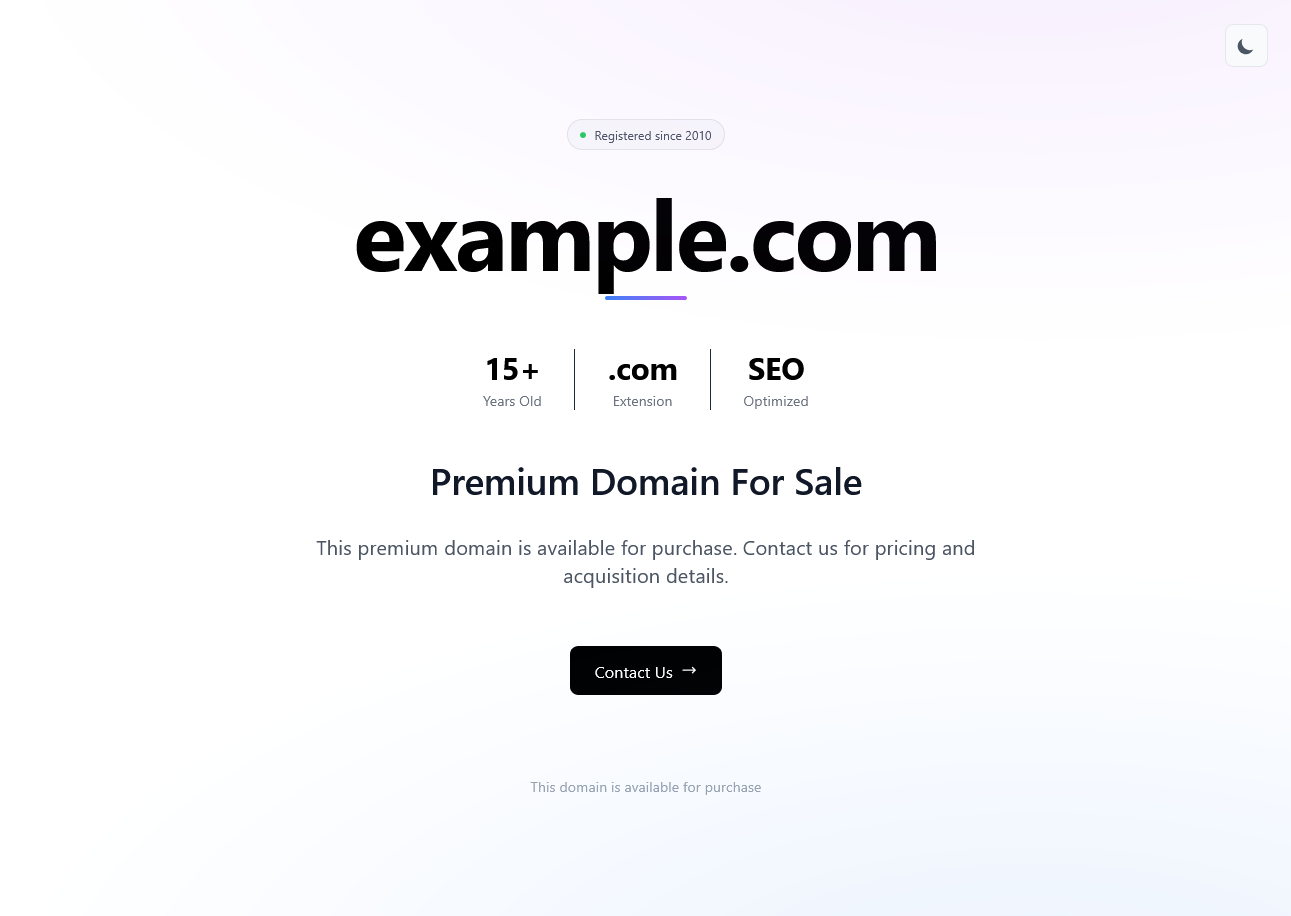
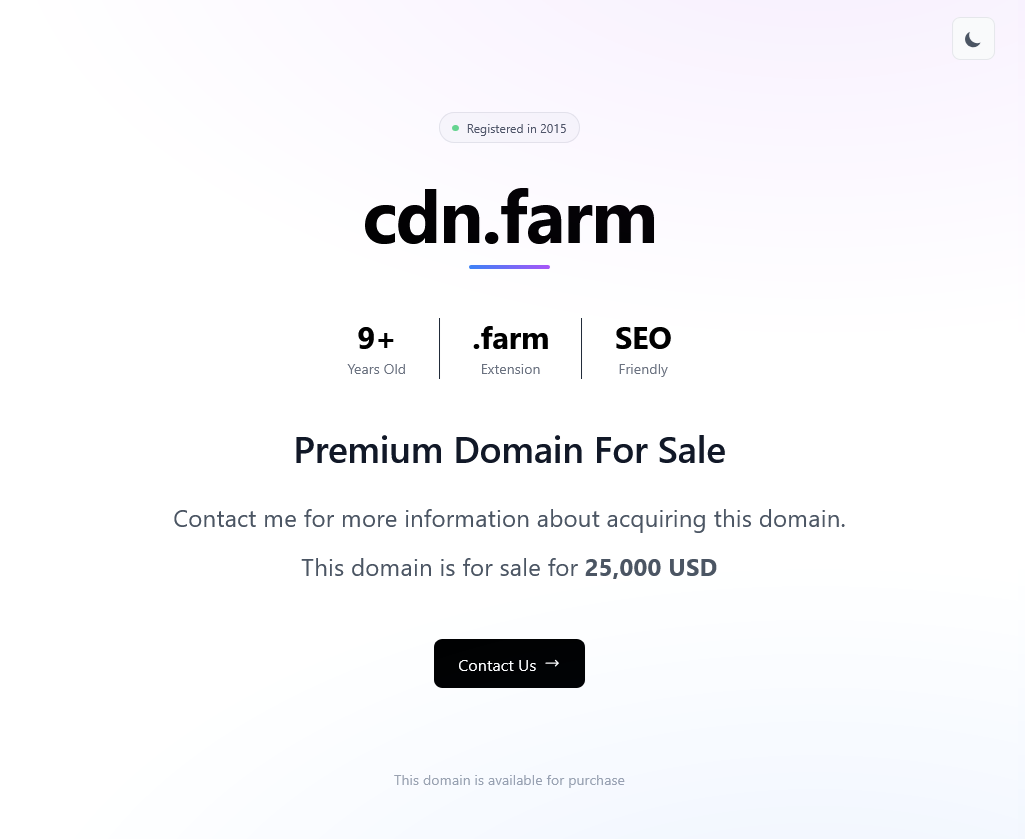
Enhance domain page with dynamic stats and config

diff --git a/src/index.js b/src/index.js
@@ -1,14 +1,38 @@
-import config from '../config.json';
+import config from "../config.json";
 
 /**
  * Load configuration with environment variable overrides
  */
 function getConfig(env) {
+  const registrationDate = env.REGISTRATION_DATE || config.registrationDate;
+  let domainAgeYears = "";
+  let domainRegistration = "";
+  let domainExtension = "";
+
+  const domain = env.DOMAIN || config.domain;
+  if (domain) {
+    const parts = domain.split(".");
+    if (parts.length > 1) {
+      domainExtension = `.${parts.pop()}`;
+    }
+  }
+
+  if (registrationDate) {
+    const regDate = new Date(registrationDate);
+    const ageInMs = Date.now() - regDate.getTime();
+    const ageInYears = ageInMs / (1000 * 60 * 60 * 24 * 365.25);
+    domainAgeYears = `${Math.floor(ageInYears)}+`;
+    domainRegistration = `Registered in ${regDate.getFullYear()}`;
+  }
+
   return {
-    domain: env.DOMAIN || config.domain,
+    domain: domain,
     title: env.TITLE || config.title,
     description: env.DESCRIPTION || config.description,
-    domainAge: env.DOMAIN_AGE || config.domainAge,
+    domainAgeYears: domainAgeYears,
+    domainRegistration: domainRegistration,
+    domainExtension: domainExtension,
+    salePrice: env.SALE_PRICE || config.salePrice,
     contactEmail: env.CONTACT_EMAIL || config.contactEmail,
     backgroundColor: env.BG_COLOR || config.backgroundColor,
     textColor: env.TEXT_COLOR || config.textColor,
@@ -83,14 +107,18 @@ function generateHTML(cfg) {
     <div class="flex items-center justify-center min-h-screen px-6 py-24">
         <div class="max-w-4xl w-full">
             <!-- Domain Badge -->
-            ${cfg.domainAge ? `
+            ${
+              cfg.domainRegistration
+                ? `
             <div class="flex justify-center mb-8">
                 <div class="inline-flex items-center gap-2 px-3 py-1.5 rounded-full border dark:border-gray-800 border-gray-200 dark:bg-gray-900 bg-gray-50">
                     <div class="w-1.5 h-1.5 rounded-full bg-green-500 animate-pulse"></div>
-                    <span class="text-xs font-medium dark:text-gray-400 text-gray-600">${cfg.domainAge}</span>
+                    <span class="text-xs font-medium dark:text-gray-400 text-gray-600">${cfg.domainRegistration}</span>
                 </div>
             </div>
-            ` : ''}
+            `
+                : ""
+            }
             
             <!-- Main Content -->
             <div class="text-center space-y-8">
@@ -105,18 +133,22 @@ function generateHTML(cfg) {
                 <!-- Domain Stats -->
                 <div class="flex flex-wrap justify-center gap-6 sm:gap-8 py-4">
                     <div class="text-center">
-                        <div class="text-2xl sm:text-3xl font-bold dark:text-white text-black">15+</div>
+                        <div class="text-2xl sm:text-3xl font-bold dark:text-white text-black">${
+                          cfg.domainAgeYears
+                        }</div>
                         <div class="text-sm dark:text-gray-500 text-gray-500 mt-1">Years Old</div>
                     </div>
                     <div class="hidden sm:block w-px bg-gray-800 dark:bg-gray-800"></div>
                     <div class="text-center">
-                        <div class="text-2xl sm:text-3xl font-bold dark:text-white text-black">.com</div>
+                        <div class="text-2xl sm:text-3xl font-bold dark:text-white text-black">${
+                          cfg.domainExtension
+                        }</div>
                         <div class="text-sm dark:text-gray-500 text-gray-500 mt-1">Extension</div>
                     </div>
                     <div class="hidden sm:block w-px bg-gray-800 dark:bg-gray-800"></div>
                     <div class="text-center">
                         <div class="text-2xl sm:text-3xl font-bold dark:text-white text-black">SEO</div>
-                        <div class="text-sm dark:text-gray-500 text-gray-500 mt-1">Optimized</div>
+                        <div class="text-sm dark:text-gray-500 text-gray-500 mt-1">Friendly</div>
                     </div>
                 </div>
                 
@@ -126,12 +158,19 @@ function generateHTML(cfg) {
                 </h2>
                 
                 <!-- Description -->
-                <p class="text-lg sm:text-xl dark:text-gray-400 text-gray-600 max-w-2xl mx-auto leading-relaxed">
-                    ${cfg.description}
-                </p>
+                <p class="text-lg sm:text-xl md:text-2xl dark:text-gray-400 text-gray-600 max-w-2xl mx-auto">
+                    <span class="font-normal block mt-2 mb-4">${
+                      cfg.description
+                    }</span>
+                    This domain is for sale for <strong>${
+                      cfg.salePrice
+                    }</strong>
+                    </p>
                 
                 <!-- Contact CTA -->
-                ${cfg.contactEmail ? `
+                ${
+                  cfg.contactEmail
+                    ? `
                 <div class="pt-6">
                     <a id="contact-link" href="#" 
                        class="group inline-flex items-center justify-center gap-2 px-6 py-3 rounded-lg dark:bg-white bg-black dark:text-black text-white font-medium transition-all hover:scale-105 hover:shadow-lg dark:hover:shadow-white/20 hover:shadow-black/20">
@@ -141,7 +180,9 @@ function generateHTML(cfg) {
                         </svg>
                     </a>
                 </div>
-                ` : ''}
+                `
+                    : ""
+                }
             </div>
             
             <!-- Footer -->
@@ -155,17 +196,21 @@ function generateHTML(cfg) {
 
     <script>
         // Email protection - inject mailto link via JavaScript
-        ${cfg.contactEmail ? `
+        ${
+          cfg.contactEmail
+            ? `
         (function() {
-            const user = '${cfg.contactEmail.split('@')[0]}';
-            const domain = '${cfg.contactEmail.split('@')[1]}';
+            const user = '${cfg.contactEmail.split("@")[0]}';
+            const domain = '${cfg.contactEmail.split("@")[1]}';
             const email = user + '@' + domain;
             const link = document.getElementById('contact-link');
             if (link) {
                 link.href = 'mailto:' + email;
             }
         })();
-        ` : ''}
+        `
+            : ""
+        }
         
         // Dark mode toggle functionality
         const themeToggleBtn = document.getElementById('theme-toggle');
@@ -205,13 +250,13 @@ function generateHTML(cfg) {
 export default {
   async fetch(request, env, ctx) {
     const cfg = getConfig(env);
-    
+
     const html = generateHTML(cfg);
-    
+
     return new Response(html, {
       headers: {
-        'content-type': 'text/html;charset=UTF-8',
-        'cache-control': 'public, max-age=3600',
+        "content-type": "text/html;charset=UTF-8",
+        "cache-control": "public, max-age=3600",
       },
     });
   },

diff --git a/.github/copilot-instructions.md b/.github/copilot-instructions.md
@@ -4,10 +4,7 @@
 
 Ultra minimal domain parking page built for Cloudflare Workers with configuration support via config file and environment variable overrides.
 
-## Status
+- built to run on Cloudflare Workers
+- supports custom configuration via `config.json` file
+- supports environment variable overrides for configuration
 
-✅ Project structure created
-✅ Configuration system implemented
-✅ Minimal parking page created
-✅ Deployment configuration added
-✅ Documentation complete
